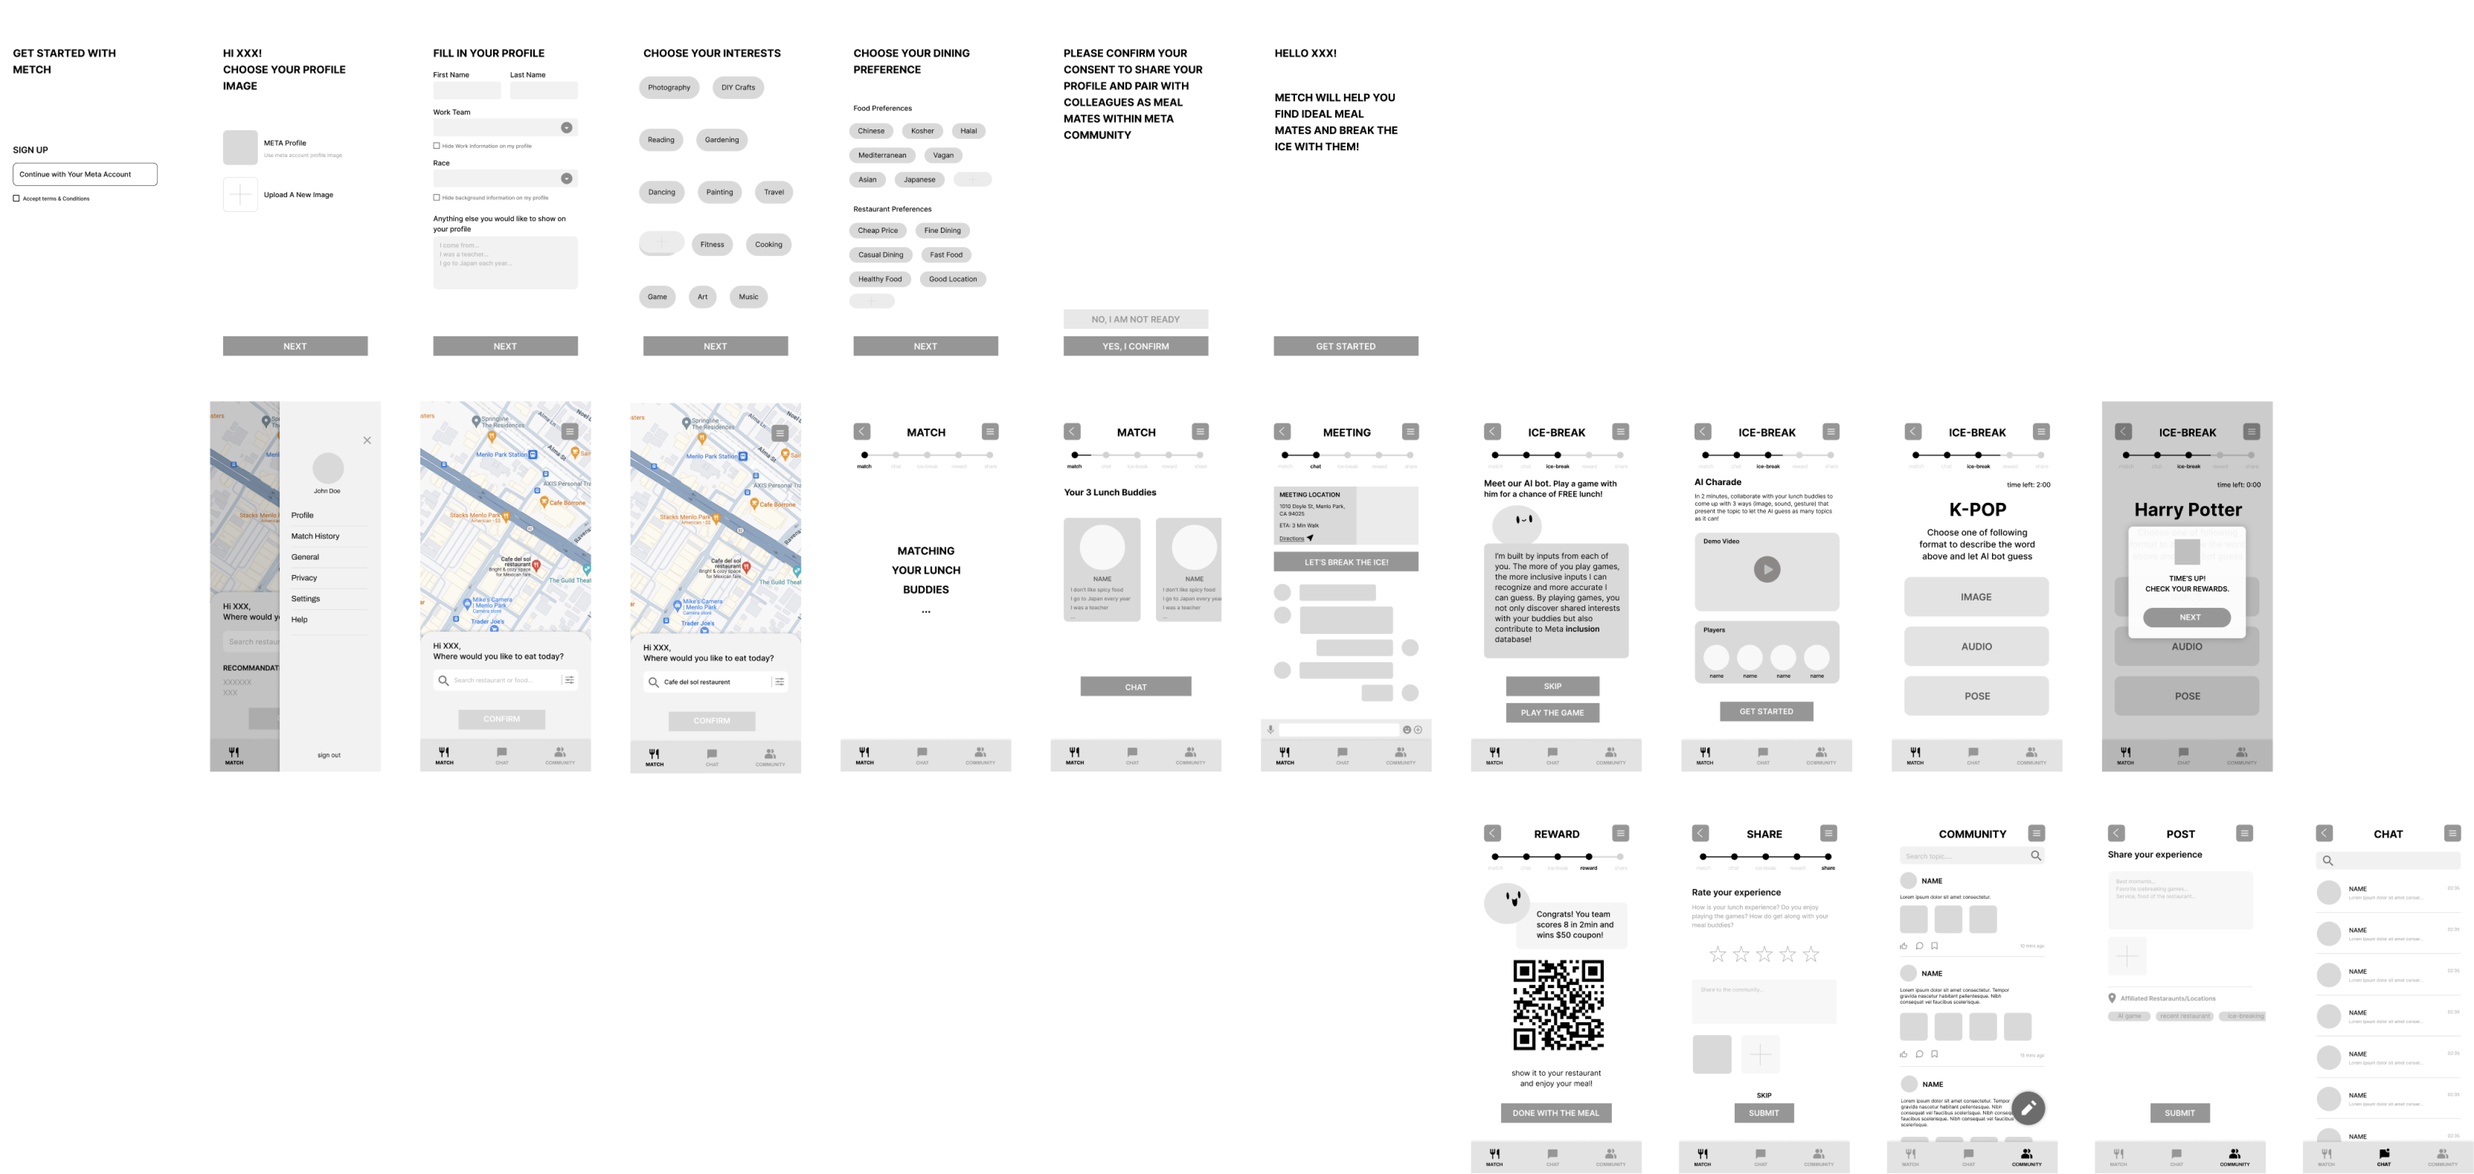
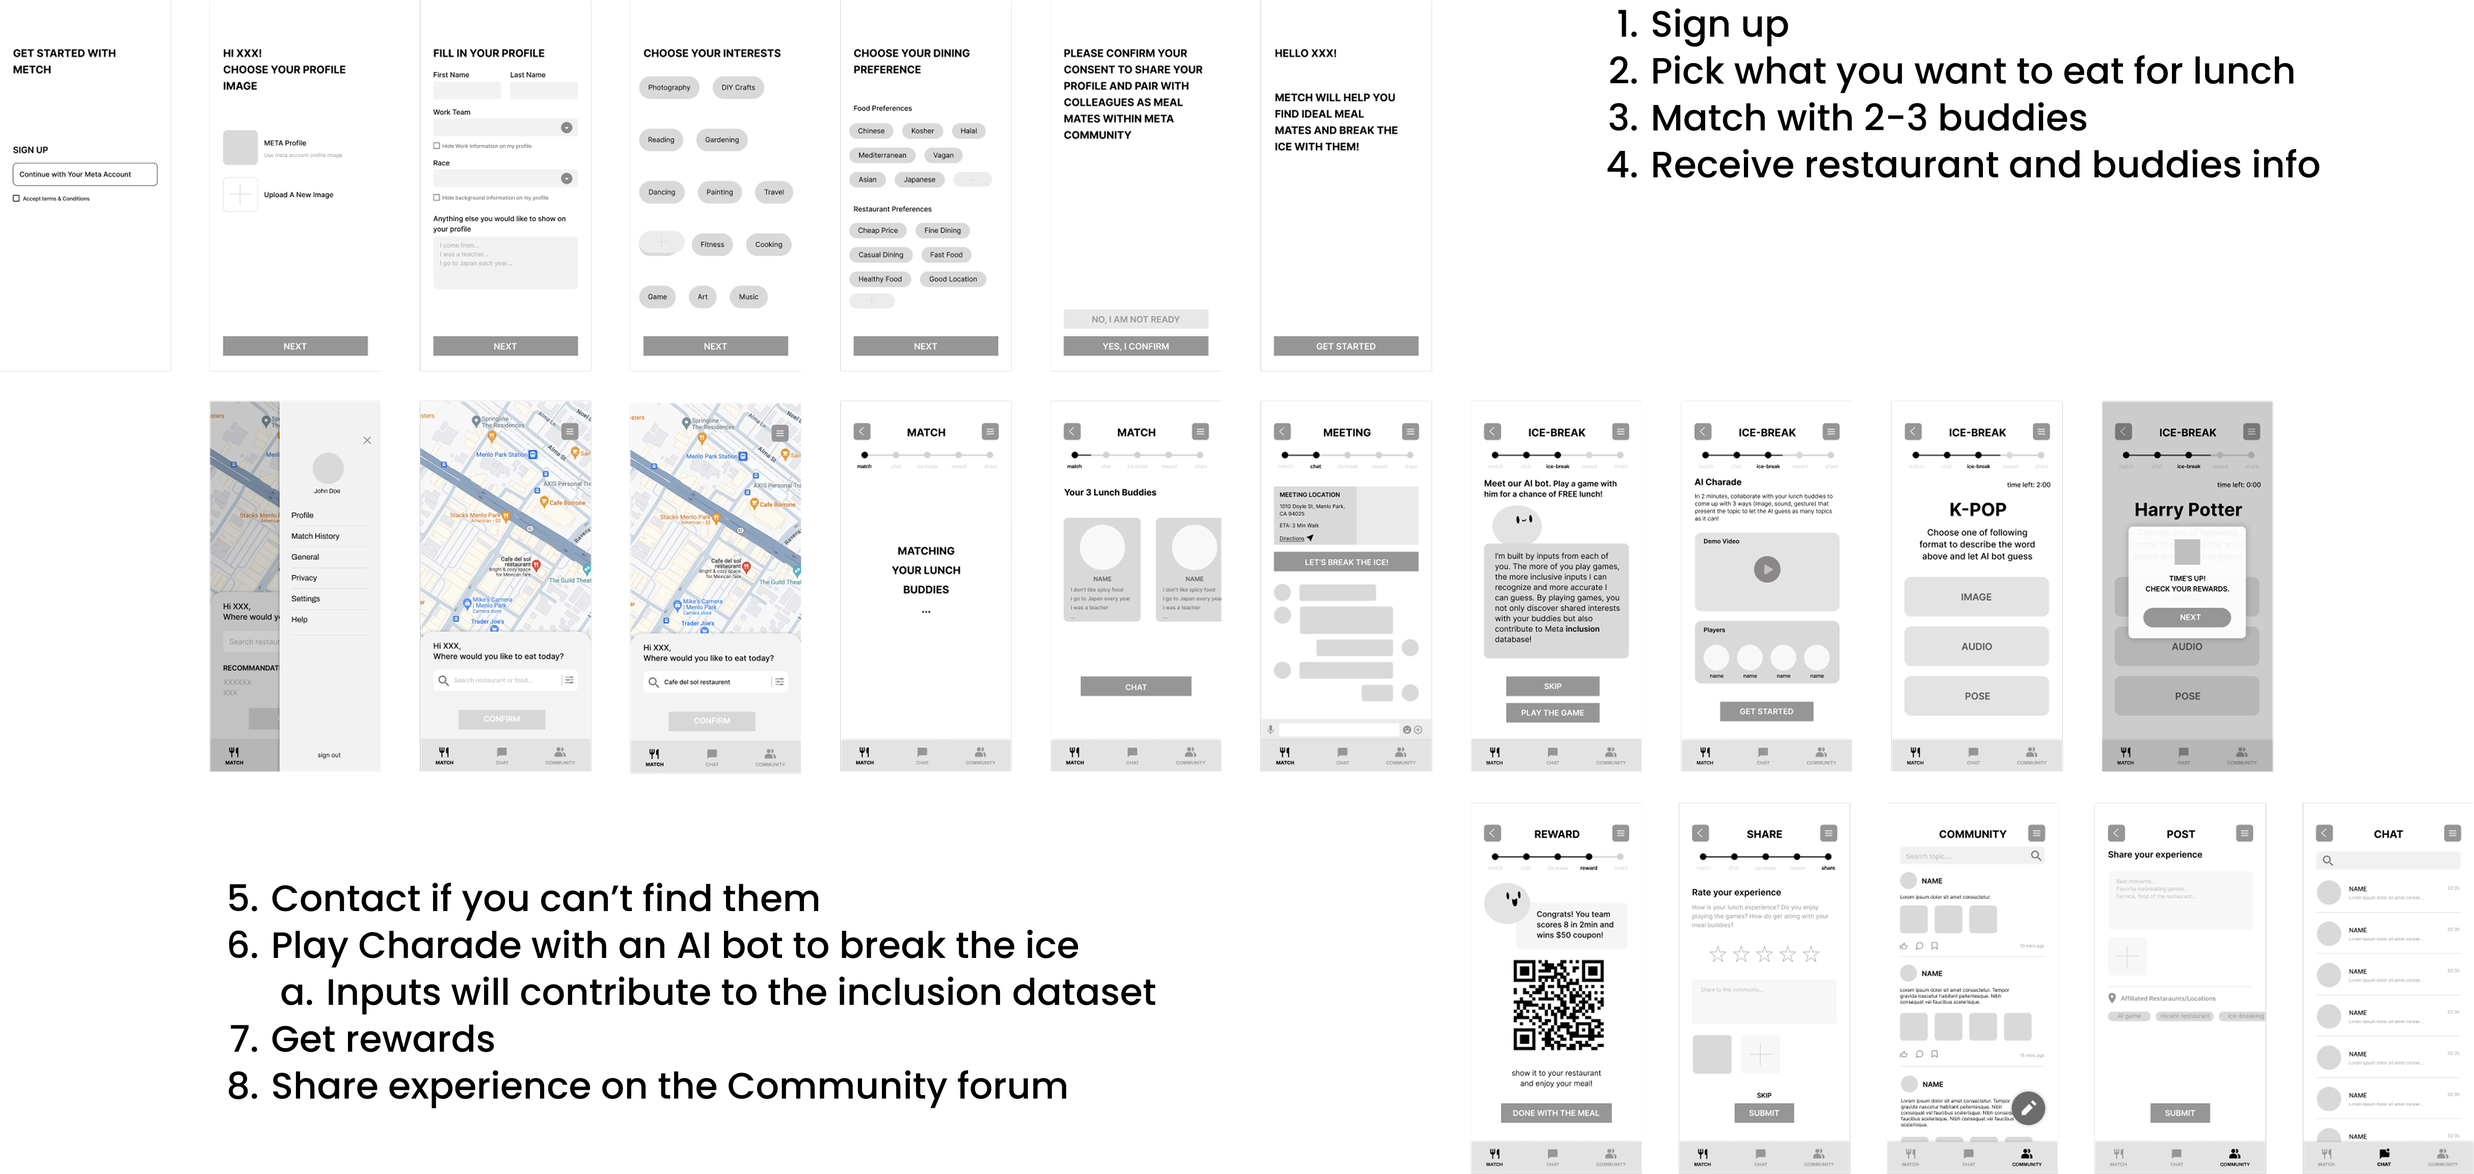
layout adjustment

diff --git a/metch/metch.html b/metch/metch.html
@@ -51,8 +51,10 @@
             <p style="padding-top: 16px;">In the current business climate, inclusion has been a top priority in the workplace and the demand for inclusion has increased 20% in 2020. Research consistently shows inclusive workplaces are 6 times more likely to be innovative and twice as likely to meet or surpass financial goals than non inclusive ones.</p><br>
             <div class="meta">
                 <h3>META</h3>
-                <p style="padding-top: 16px; width: 544px;">According to Media Diversity Institute & Meta 2022 Report, we can see that META’s strong commitment to inclusion, in both hiring process and investment.<br><br>Despite considerable efforts to enhance diversity within its workforce, challenges remain in fostering genuine inclusion, particularly among new hires who struggle to integrate socially and culturally. Majority of them found it challenging to engage in social interactions, break the ice with others, and have to change themselves to fit in.</p>
-                <img src="img_metch/image%2037.png">
+                <div class="meta_intro">
+                    <p style="padding-top: 16px; width: 544px;">According to Media Diversity Institute & Meta 2022 Report, we can see that META’s strong commitment to inclusion, in both hiring process and investment.<br><br>Despite considerable efforts to enhance diversity within its workforce, challenges remain in fostering genuine inclusion, particularly among new hires who struggle to integrate socially and culturally. Majority of them found it challenging to engage in social interactions, break the ice with others, and have to change themselves to fit in.</p>
+                    <img src="img_metch/image%2037.png">
+                </div>
             </div>
         </div>
         
@@ -105,9 +107,11 @@
         
         <div class="solution">
             <h2>Solution.</h2>
-            <p>A social dining App, Metch, that pairs Meta employees up with their colleagues to grab lunch together during workdays.</p><br><br>
-            <img style="position:absolute; top:6960px; right:160px;" src="img_metch/image%2042.png">
-            <img style="position:absolute; top:6960px; right:236px;" src="img_metch/image%2043.png">
+            <div class="solution_container">
+                <p>A social dining App, Metch, that pairs Meta employees up with their colleagues to grab lunch together during workdays.</p><br><br>
+                <img src="img_metch/app.png">
+            </div>
+            
             <div class="features">
                 <h3>Key Features ✨</h3>
                 <ul>
@@ -141,10 +145,6 @@
             <h4>PROTOTYPE</h4>
             <h2>Lo-Fi prototype.</h2>
             <img src="img_metch/lofi.png">
-            <ul style="position:absolute; top:80px; right:0;">
-                <li>1. Sign up</li><li>2. Pick what you want to eat for lunch</li><li>3. Match with 2-3 buddies</li><li>4. Receive restaurant and buddies info</li></ul>
-            <ul style="position:absolute; top:400px; left:0;">
-                <li>5. Contact if you can’t find them</li><li>6. Play Charade with an AI bot to break the ice</li><li>7. Inputs will contribute to the inclusion dataset</li><li>8. Get rewards</li><li>9. Share experience on the Community forum</li></ul>
         </div>
         
         <div class="test">
@@ -159,6 +159,7 @@
                         <li>Participants: 3 NYU LTXD Graduate student</li>
                     </ul>
                 </div>
+                <img src="img_metch/Line.png">
                 <div class="right">
                     <p style="background-color: #DAFF5E; width:280px; text-align: center;">Key Feedback and Observation</p>
                     <ul>
@@ -168,7 +169,6 @@
                         <li>No option to skip certain functions (e.g. Ice breaking games)</li>
                     </ul>
                 </div>
-                <img style="position: absolute; left: 320px; height:200px;" src="img_metch/Line.png">
             </div>
         </div>
         

diff --git a/prosody/prosody.html b/prosody/prosody.html
@@ -107,26 +107,32 @@
         
         <div class="survey">
             <h3>Research Findings</h3>
-            <div style="position: absolute; top:100px; left:200px;" class="finding">
-                <h4>01</h4>
-                <p>In second language reading comprehension, prosodic sensitivity is not related to reading comprehension scores, and can not effectively help to identify the prosody of materials.</p>
+            <div class="findings">
+                <ul style="flex:1;">
+                    <li>
+                        <h4>01</h4>
+                        <p>In second language reading comprehension, prosodic sensitivity is not related to reading comprehension scores, and can not effectively help to identify the prosody of materials.</p>
+                    </li>
+                    <li>
+                        <h4>03</h4>
+                        <p>Speech information increase the total fixation time, fixation number and reprocessing behavior in second language reading.</p>
+                    </li>
+                </ul>
+                <ul style="flex:1; padding-top:100px;">
+                    <li>
+                        <h4>02</h4>
+                        <p>The presence or absence of prosodic has no effect on second language reading comprehension.</p>
+                    </li>
+                    <li>
+                        <h4>04</h4>
+                        <p>Prosodic information increases the depth of first processing, reprocessing frequency and time of reading in stage 1, reduces more rereading or repetitive reading activities after the sound, and improves reading fluency.</p>
+                    </li>
+                </ul>
             </div>
-            <div style="position: absolute; top:100px; right:200px;" class="finding">
-                <h4>02</h4>
-                <p>The presence or absence of prosodic has no effect on second language reading comprehension.</p>
-            </div>
-            <div style="position: absolute; top:350px; left:200px;" class="finding">
-                <h4>03</h4>
-                <p>Speech information increase the total fixation time, fixation number and reprocessing behavior in second language reading.</p>
-            </div>
-            <div style="position: absolute; top:350px; right:200px;" class="finding">
-                <h4>04</h4>
-                <p>Prosodic information increases the depth of first processing, reprocessing frequency and time of reading in stage 1, reduces more rereading or repetitive reading activities after the sound, and improves reading fluency.</p>
-            </div>
-            <h3 style="position: absolute; top:600px; left:200px;"><a href="https://drpress.org/ojs/index.php/ijeh/article/view/1405" target="_blank" rel="noopener noreferrer">My paper is available for viewing:)<br>Find more details here>></a></h3>
-        </div>
+            <h3 style="padding-top:32px; padding-left:200px;"><a href="https://drpress.org/ojs/index.php/ijeh/article/view/1405" target="_blank" rel="noopener noreferrer">My paper is available for viewing:)<br>Find more details here>></a></h3>
+        </div> 
         
-        <div style="height:600px;"></div>
+       
         
         <!--footer-->
         <div class="footer">

diff --git a/sleep/sleep_better.html b/sleep/sleep_better.html
@@ -66,25 +66,31 @@
         
         <div class="survey">
             <h3>Quantitative Research</h3>
-            <div style="position: absolute; top:100px; left:200px;" class="finding">
-                <h4>40.35%</h4>
-                <p>Having difficulty finding <b>reliable information or treatments</b> is the biggest challenge.</p>
-            </div>
-            <div style="position: absolute; top:200px; right:200px;" class="finding">
-                <h4>74%</h4>
-                <p>The main factor that learners think causes insomnia is <b>work or study pressure.</b></p>
-            </div>
-            <div style="position: absolute; top:300px; left:200px;" class="finding">
-                <h4>74%</h4>
-                <p>Home is their typical learning location, highlighting the needs of <b>comfort, access to resources, and structured learning environments.</b></p>
-            </div>
-            <div style="position: absolute; top:400px; right:200px;" class="finding">
-                <h4>79%</h4>
-                <p>Prefer learning sessions within 30 minutes, highlighting the importance of delivering content in a format that is <b>convenient, accessible, and conducive to optimal learning outcomes.</b></p>
-            </div>
-            <div style="position: absolute; top:550px; left:200px;" class="finding">
-                <h4>64%</h4>
-                <p>Prefer online learning, which is <b>accessible and flexible.</b></p>
+            <div class="findings">
+                <ul style="flex: 1;">
+                    <li>
+                        <h4>40.35%</h4>
+                        <p>Having difficulty finding <b>reliable information or treatments</b> is the biggest challenge.</p>
+                    </li>
+                    <li>
+                        <h4>74%</h4>
+                        <p>Home is their typical learning location, highlighting the needs of <b>comfort, access to resources, and structured learning environments.</b></p>
+                    </li>
+                    <li>
+                        <h4>64%</h4>
+                        <p>Prefer online learning, which is <b>accessible and flexible.</b></p> 
+                    </li>
+                </ul>
+                <ul style="flex:1; padding-top:100px;">
+                    <li>
+                        <h4>74%</h4>
+                        <p>The main factor that learners think causes insomnia is <b>work or study pressure.</b></p>
+                    </li>
+                    <li>
+                        <h4>79%</h4>
+                        <p>Prefer learning sessions within 30 minutes, highlighting the importance of delivering content in a format that is <b>convenient, accessible, and conducive to optimal learning outcomes.</b></p>
+                    </li>
+                </ul>
             </div>
         </div>
         

diff --git a/metch/style_metch.css b/metch/style_metch.css
@@ -162,7 +162,14 @@ p{
 
 /* 正式内容 */
 .background{margin:48px 160px;}
-.meta img{width:360px; position: absolute; top:1480px; right:160px;}
+.meta_intro{
+    display: flex;
+    justify-content: space-between;
+    align-items: flex-start;
+    gap:16px;
+}
+.meta p{flex:2;}
+.meta img{flex:1; display: inline-block; width:35%;}
 
 
 .process{margin:48px 160px;}
@@ -190,11 +197,12 @@ p{
 .concept{margin:48px 160px;}
 
 .solution{margin:48px 160px;}
-.solution img{
-    display:inline;
-    width:60px;
+.solution_container{
+    display: flex; 
+    justify-content: space-between;
+    gap:16px;
 }
-.solution p{width: 80%; text-align: left;}
+.solution_container img{display: inline-block; width:20%;}
 
 .features ul{
     margin-top:32px;
@@ -212,25 +220,23 @@ p{
 .storyboard{margin:48px 160px;}
 .storyboard img{margin:auto; width:100%;}
 
-.lowfi{margin:48px 160px; position: relative;}
-.lowfi img{margin:auto; width:100%; padding-bottom: 48px;}
+.lowfi{margin:48px 160px;}
+.lowfi img{margin:auto; width:100%; padding:48px 0;}
 
 .test{margin:48px 160px;}
 .test_container{
     display:flex;
-    justify-content: space-between; /* 左右分布 */
-    align-items: flex-start; /* 顶部对齐 */
-    gap: 140px; /* 左右部分的间距 */
+    justify-content: flex-start;
+    gap: 70px; 
     margin:48px 0;
-    position: relative;
 }
 .left{
-    flex: 1; /* 左边占据较多空间 */
+    flex: 1; white-space: nowrap;
 }
 .left ul{padding-top: 16px; line-height: 2.4;}
 
 .right{
-    flex: 2; /* 右边占据较少空间 */
+    flex: 2; white-space: nowrap;
 }
 .right ul{padding-top: 16px; line-height: 2.4;}
 

diff --git a/bunny/bunny.html b/bunny/bunny.html
@@ -29,7 +29,7 @@
         <img class="cover" style="width:100%;" src="img_bunny/cover.png">
         <div class="content">
             <p>This is a side project I did in my spare tme. It’s a set of emojis inspired by the combination of bunny and flower.<br><br>I've always loved doodling in everyday life, and through stickers, people can share lovely moments and various emotions in their personal lives with others. I made the whole emoji set with Procreate and Photoshop, and once it was published, I was really excited and happy.</p>
-            <img src="img_bunny/qrcode%201.png">
+            <img style="padding: 32px;" src="img_bunny/qrcode%201.png">
         </div>
         <div class="display">
             <ul>
@@ -96,11 +96,10 @@
                  <li>
                     <img src="img_bunny/question.png">
                     <p>Questioning</p>
-                </li>
-                
+                </li>   
             </ul>
             
-            <img style="margin: auto; width: 40%;" src="img_bunny/cover2.png">
+            <img style="margin: auto; padding: 32px; width: 40%;" src="img_bunny/cover2.png">
             <p style="margin: auto; width: 40%; text-align: center;">Cover</p>
         </div>
         

diff --git a/about/about.html b/about/about.html
@@ -43,13 +43,13 @@
                 <h3 style="padding-top: 32px;">Master of Arts: Learning Technology and Experience Design</h3>
                 <div style="display: flex; justify-content: space-between;">
                     <p style="display:inline;">New York University</p>
-                    <p style="display:inline; padding-left: 572px;">2023-2025</p>
+                    <p style="display:inline; padding-right: 0;">2023-2025</p>
                 </div>
                 
                 <h3 style="padding-top: 16px;">Bachelor of Laws: Politics, Philosophy, and Economics(PPE)</h3>
                 <div style="display: flex; justify-content: space-between;">
-                    <p style="display:inline;">Wuhan University, Hongyi School(Honor College of Wuhan University)</p>
-                    <p style="display:inline; padding-left: 180px;">2019-2023</p>
+                    <p style="display:inline;">Wuhan University</p>
+                    <p style="display:inline; padding-right:0;">2019-2023</p>
                 </div>
                 <p>Honor Graduate</p>
             </div>

diff --git a/index.html b/index.html
@@ -38,6 +38,7 @@
                 <p>I’m a UX designer and instructional designer. I enjoy design because it combines business strategies, research methods, psychological principles, and design aesthetics in a unique way, allowing me to bring my creativity and problem-solving skills to projects that create user-centered experiences.</p><br>
                 <button class="black-button"><a href="about/about.html">Know about me</a></button>
             </div>
+           
             <div class="cartoon">
                 <div class="cartoon_container">
                     <img class="hand" src="img/hand.png">
@@ -46,7 +47,6 @@
                     <img class="pupil" src="img/pupil.png">
                     <img class="highlight" src="img/highlights.png">
                     <img class="plant" src="img/plant.png">  
-                    
                 </div>
             </div>  
         </div>

diff --git a/sleep/style_sleep_better.css b/sleep/style_sleep_better.css
@@ -172,14 +172,19 @@ p{
 
 
 .process{margin:64px 160px;}
-.process img{margin: auto; width:100%; padding-top: 32px;}
+.process img{margin: auto; width:100%; padding-top: 48px;}
 
 .interview{position: relative;}
 
-.survey{padding:48px 160px; position: relative;}
-.finding{width:320px; height:auto; text-align: left;}
+.survey{padding:48px 160px;}
+.findings{
+    display: flex;
+    justify-content: space-between;
+    gap: 80px;
+}
+.findings ul li{padding:32px 0;}
 
-.competitive{padding:48px 160px; margin-top: 560px; background-color: #F6FAFE;}
+.competitive{padding:48px 160px; background-color: #F6FAFE;}
 .describe{
     padding:32px 0;
     display:flex;

diff --git a/prosody/style_prosody.css b/prosody/style_prosody.css
@@ -201,10 +201,13 @@ p{
     gap:64px;
 }
 
-
-.survey{padding:48px 160px; position: relative;}
-.finding{width:320px; height:auto; text-align: left; transition: all 0.3s ease;}
-.finding:hover{transform: scale(1.02); /* 放大 2% */}
+.survey{padding:48px 160px;}
+.findings{
+    display: flex; 
+    justify-content: space-between; 
+    gap:32px;
+}
+.findings ul li{padding:32px 0;}
 
 .survey h3 a{color: #381292;}
 .survey h3 a:hover{transform:translateY(-2px); cursor: pointer;}

diff --git a/style.css b/style.css
@@ -131,14 +131,14 @@ body {
 }
 
 /* cover */
-.cover{background-color: #FBECCD; padding-bottom: 96px;}
+.cover{position: relative; background-color: #FBECCD; padding-bottom: 96px;}
 .cover_text{padding:160px; line-height: 48px;}
 
 
 /* 小人 */
 .cartoon{
     position: absolute;
-    top:434px;
+    bottom: -58px;
     right:120px;
 }
 .cartoon_container {
